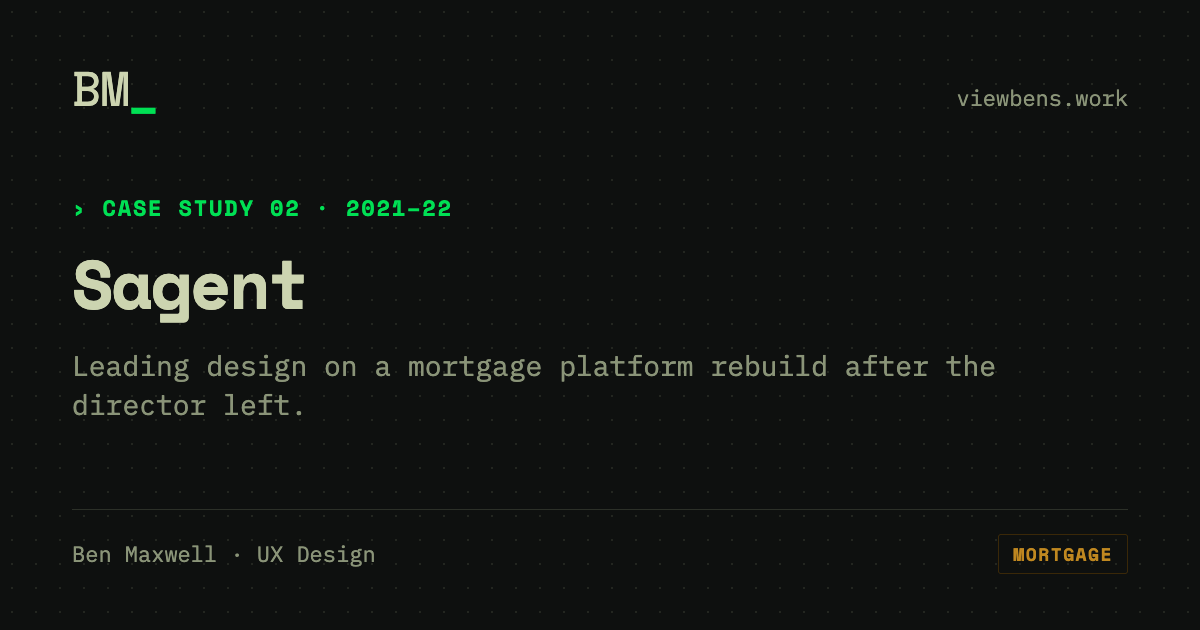
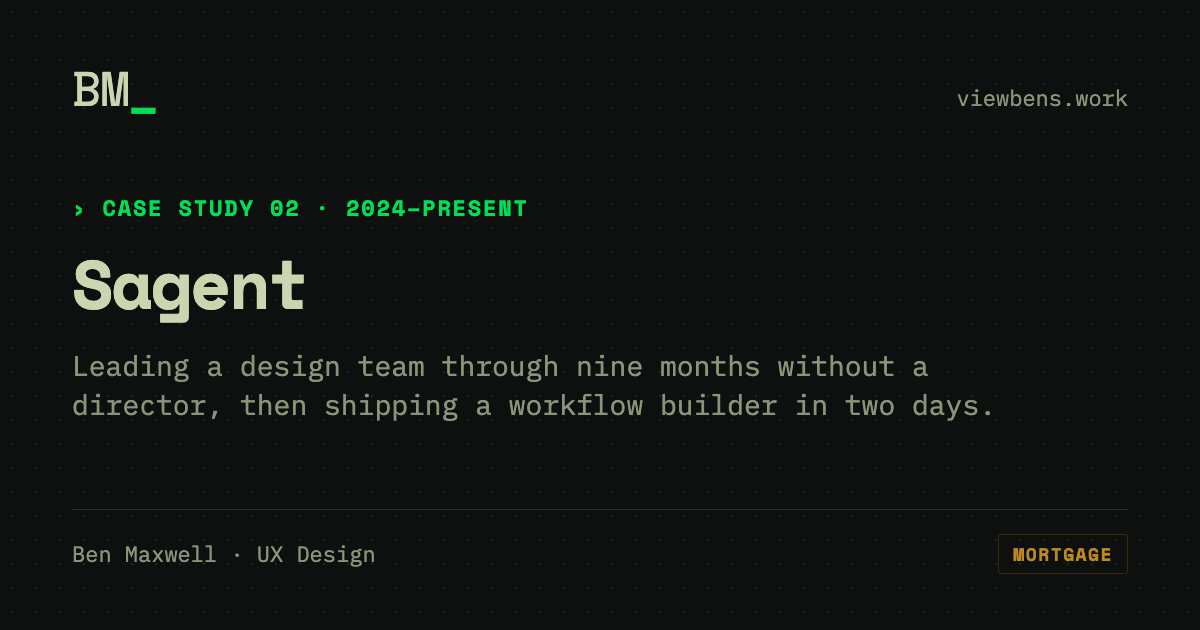
Regenerate link preview images; Portfolio uses its new headline
The Portfolio Rebuild preview still showed the old title, subtitle and
"Case study 01". It now reads its headline from the case study content,
since there is no grid card for it. Re-running the script also fixes the
Sagent, Upfluent and USAA previews, which showed old years and copy.

Changed region(s): [[0.1542, 0.573, 0.8325, 0.6635], [0.37, 0.3016, 0.4317, 0.3619], [0.3083, 0.3016, 0.3392, 0.3619]]

diff --git a/CLAUDE.md b/CLAUDE.md
@@ -887,9 +887,10 @@ both created 2026-07-16, and this session ran multiple verification scripts agai
 a new item below for removing the temporary `.vercel.app` origin allowlist entry at
 cutover, added 2026-07-19. build-plan.md's checkboxes are the source of truth if this
 drifts again.)
-- **Phase 1C:** done 2026-10-29 — the Sagent case study is live, text-only (NDA). Open: re-run
-  `scripts/generate-og-images.mjs` (Sagent, Upfluent and USAA OG images show old years/copy;
-  the script's Playwright browser failed to launch locally).
+- **Phase 1C:** done 2026-10-29 — the Sagent case study is live, text-only (NDA). OG images
+  re-run 2026-11-01. If Playwright's own browser won't launch, run the script with
+  `CHROMIUM_PATH="/Applications/Google Chrome.app/Contents/MacOS/Google Chrome"`. Portfolio
+  Rebuild's image reads `heroTitle` from `src/content/portfolio-rebuild.ts` (no grid card).
 - **Portfolio Rebuild screenshots (Ben):** the page is hidden for now (2026-10-08), but its three
   captioned figure slots are still waiting in
   `src/content/portfolio-rebuild.ts` — anchored to Process, Key decision, and What was hard.
